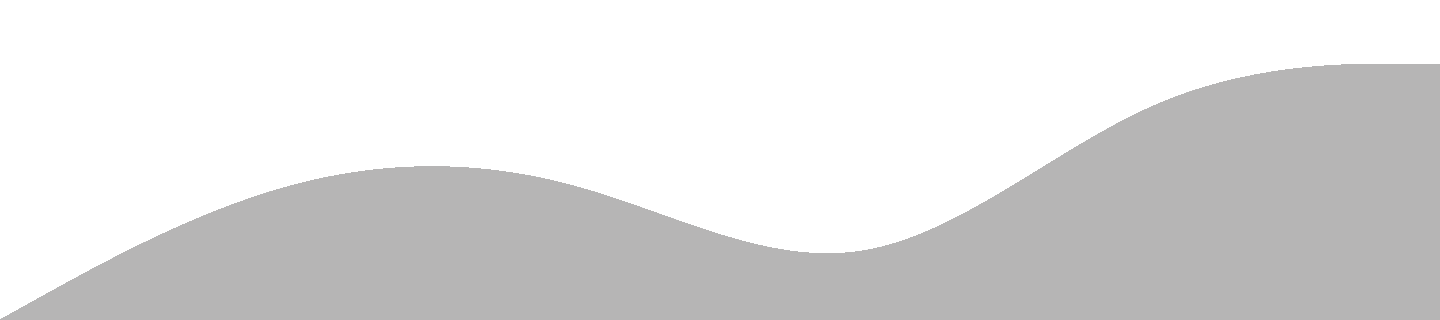
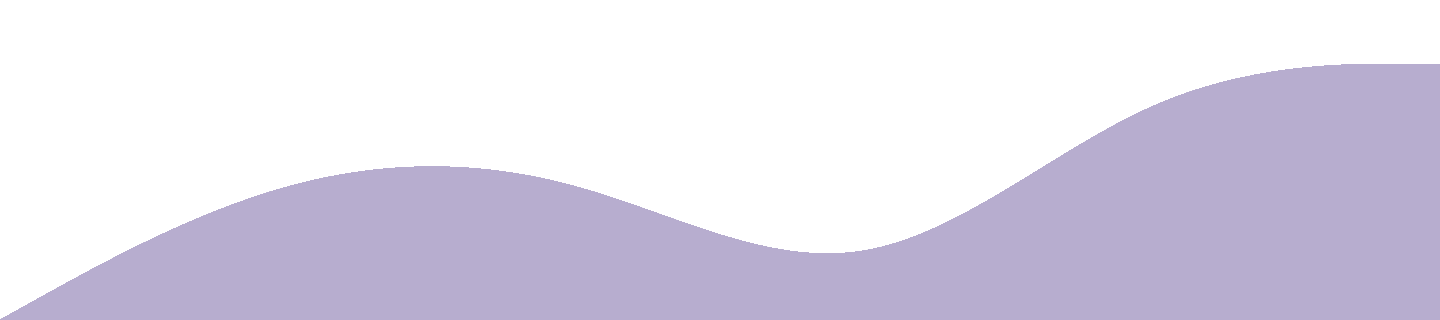
commit 6

diff --git a/assets/css/main.css b/assets/css/main.css
@@ -8,9 +8,9 @@
 
 :root {
     --primary-color: #ffddda;
-    --secondary-color: #b6b5b5;
+    --secondary-color: #b7adcf;
     --tertiary-color: #f5f5f5;
-    --secondary-color-hover: #9e9e9e;
+    --secondary-color-hover: #9d94b0;
 }
 
 html {
